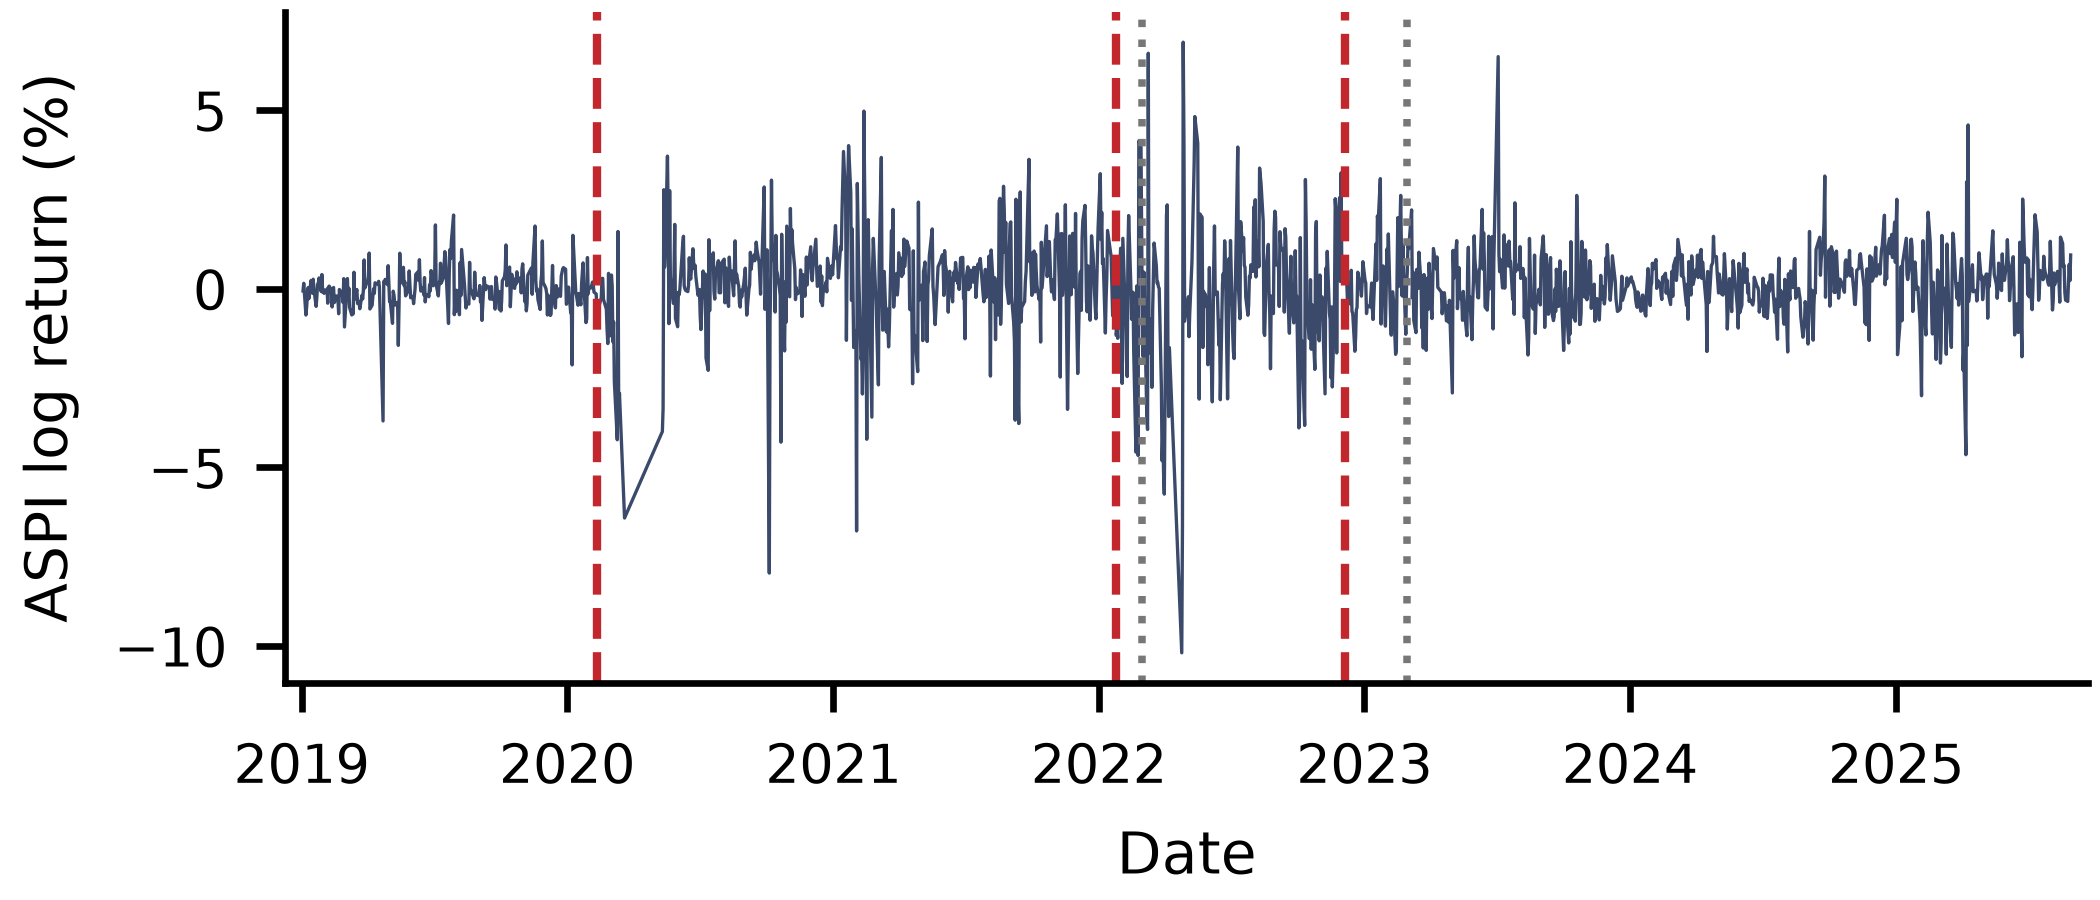
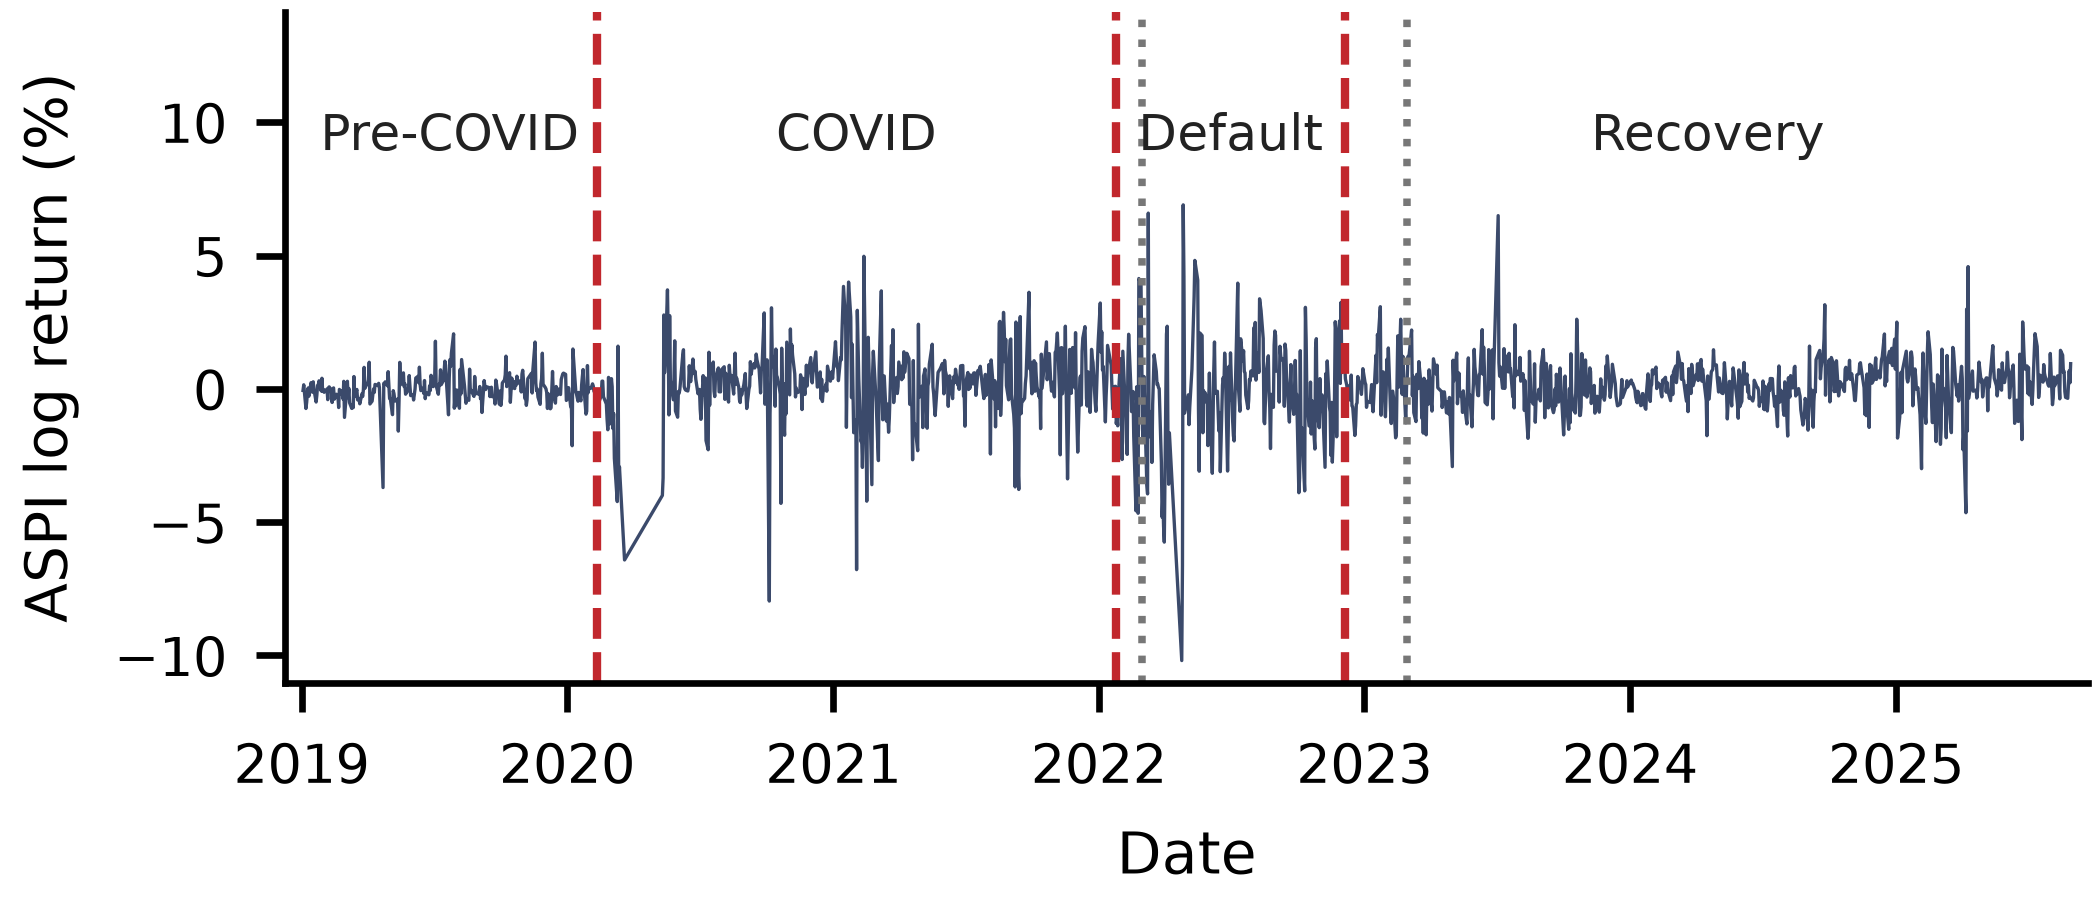
Label the four regimes in the break figure
The plot showed the estimated break lines but left the resulting regions
unnamed, so a reader had to map dashed lines back to the text to know which
window was which. The four regimes are now named in a band of headroom added
above the series, which keeps the labels clear of the returns.

diff --git a/Analysis/Structural_Breaks/break_tests.py b/Analysis/Structural_Breaks/break_tests.py
@@ -167,6 +167,18 @@ for d in breaks:
     ax.axvline(d, color='#c1272d', ls='--', lw=1.0)
 for lab in ['Crisis', 'Recovery']:
     ax.axvline(pd.Timestamp(POLICY[lab][0]), color='#777777', ls=':', lw=0.9)
+
+# Name the four estimated regimes. The labels sit in a band of headroom added
+# above the series so they never collide with the returns.
+edges = [r.index[0]] + list(breaks) + [r.index[-1]]
+y0, y1 = ax.get_ylim()
+ax.set_ylim(y0, y1 + 0.34 * (y1 - y0))
+y_lab = y1 + 0.04 * (y1 - y0)
+for (a, b), name in zip(zip(edges[:-1], edges[1:]),
+                        ['Pre-COVID', 'COVID', 'Default', 'Recovery']):
+    ax.text(a + (b - a) / 2, y_lab, name, ha='center', va='bottom',
+            fontsize=6, color='#222222')
+
 ax.set_ylabel('ASPI log return (%)')
 ax.set_xlabel('Date')
 ax.margins(x=0.01)
